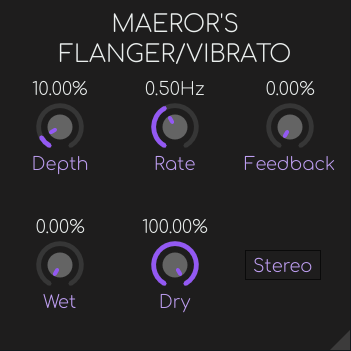
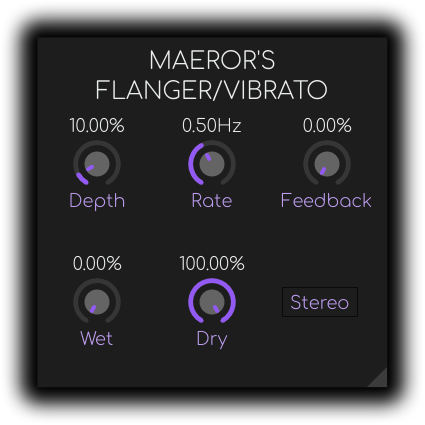
feat: shadow under images

diff --git a/README.md b/README.md
@@ -33,21 +33,21 @@ On Windows the vst3 plugin folder is usually `C:\Program Files\Common Files\VST3
 Simple chorus plugin that adds 3 voices (technically 6, because it's stereo) to the input signal using interpolated delay lines.
 
 <p align="center" width="100%">
-    <img src="images/chorus.png" alt="chorus" width="400">
+    <img src="images/chorus.png" alt="chorus" width="450">
 </p>
 
 ### Flanger
 Flanger/Vibrato plugin using interpolated delay lines. To achieve vibrato effect set the feedback to 0%, wet to 100% and dry to 0%.
 
 <p align="center" width="100%">
-    <img src="images/flanger.png" alt="flanger" width="400">
+    <img src="images/flanger.png" alt="flanger" width="450">
 </p>
 
 ### Phaser
 3-stage stereo phaser plugin using first order allpass filters.
 
 <p align="center" width="100%">
-    <img src="images/phaser.png" alt="phaser" width="400">
+    <img src="images/phaser.png" alt="phaser" width="450">
 </p>
 
 ### Phase Disperser
@@ -57,7 +57,7 @@ Multiple Allpass filters in series create a phase dispersion effect. A very simp
 A simple biquad filter with a first and second order lowpass, highpass and allpass, and bandpass, notch, low/high shelf and a peak options.
 
 <p align="center" width="100%">
-    <img src="images/biquad.png" alt="biquad" width="400">
+    <img src="images/biquad.png" alt="biquad" width="450">
 </p>
 
 ## Note
